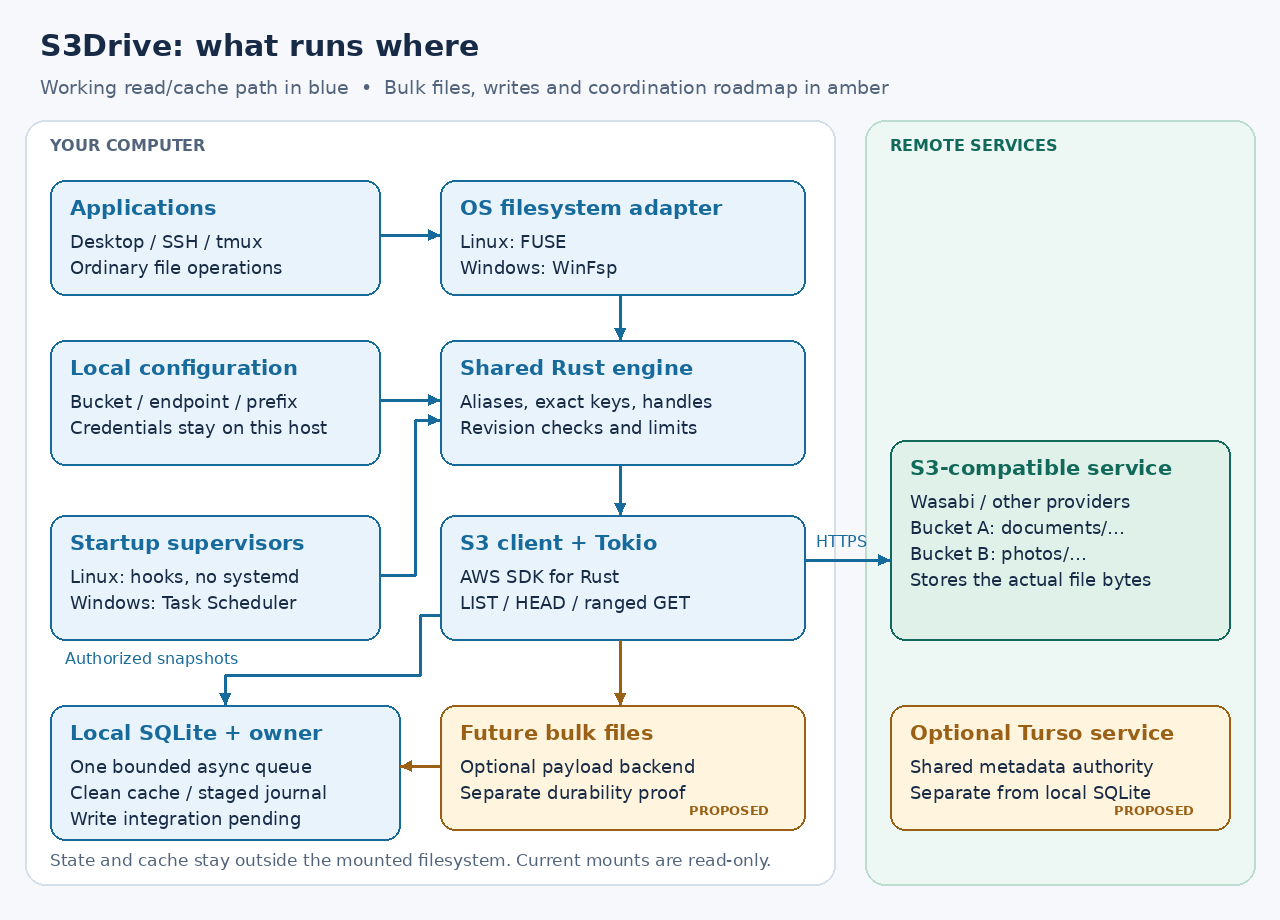
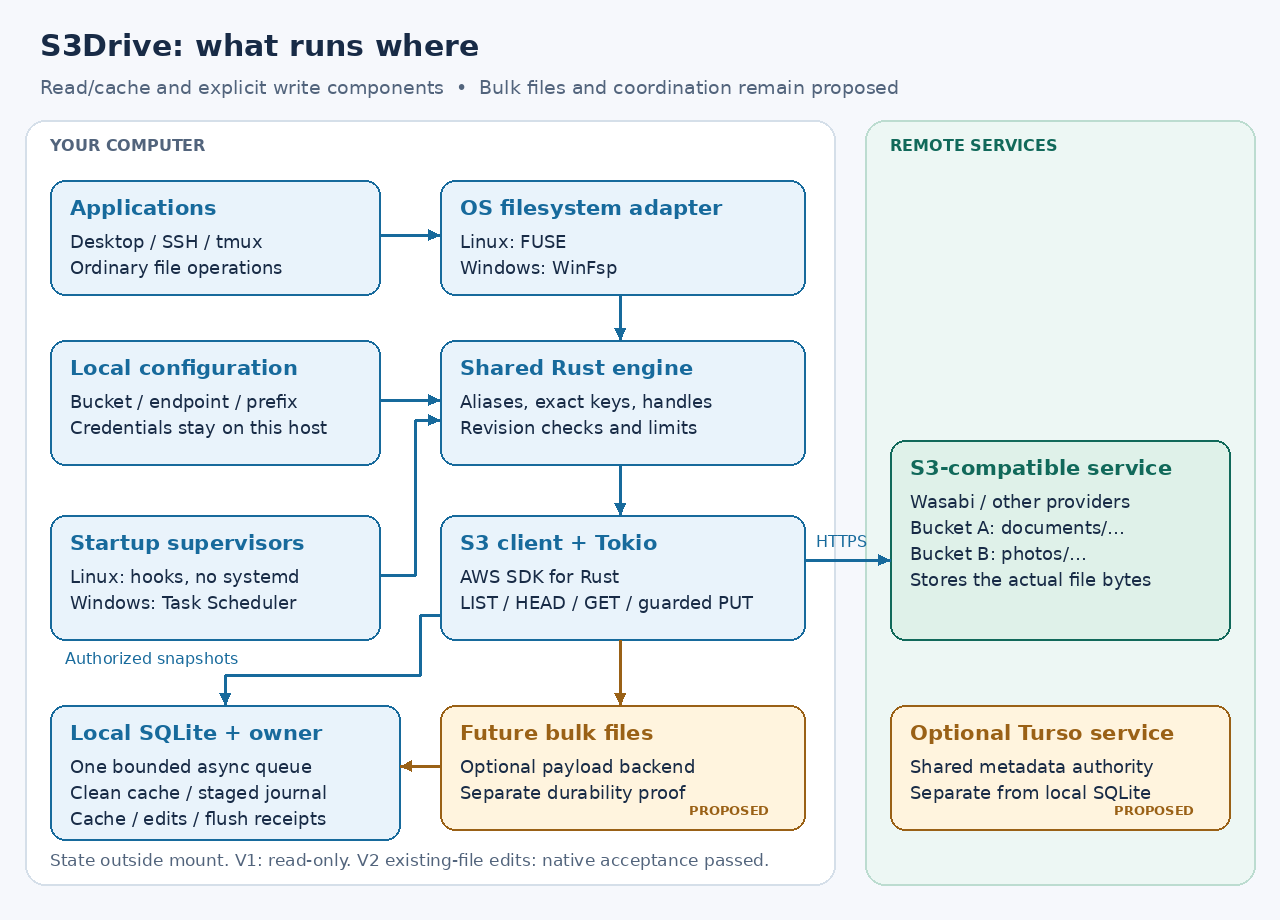
Return native conflict errors and record writable drive acceptance

Changed region(s): [[0.0625, 0.8826, 0.5938, 0.9435], [0.0312, 0.0913, 0.7188, 0.1217], [0.4375, 0.6391, 0.5938, 0.6696]]

diff --git a/scripts/draw-architecture.py b/scripts/draw-architecture.py
@@ -47,7 +47,7 @@ class Diagram:
         self.image.save(OUT / name, optimize=True)
 
 
-d = Diagram("S3Drive: what runs where", "Working read/cache path in blue  •  Bulk files, writes and coordination roadmap in amber")
+d = Diagram("S3Drive: what runs where", "Read/cache and explicit write components  •  Bulk files and coordination remain proposed")
 d.draw.rounded_rectangle((25, 120, 835, 885), 20, fill="#ffffff", outline="#d5dfe9", width=2)
 d.draw.rounded_rectangle((865, 120, 1255, 885), 20, fill="#edf7f4", outline="#bcdcd0", width=2)
 d.text(50, 136, "YOUR COMPUTER", 16, bold=True, color=MUTED)
@@ -59,19 +59,19 @@ d.box(440, 340, 365, 125, "Shared Rust engine", ["Aliases, exact keys, handles",
 d.arrow([(620, 295), (620, 340)])
 d.box(50, 340, 330, 125, "Local configuration", ["Bucket / endpoint / prefix", "Credentials stay on this host"])
 d.arrow([(380, 400), (440, 400)])
-d.box(440, 515, 365, 125, "S3 client + Tokio", ["AWS SDK for Rust", "LIST / HEAD / ranged GET"])
+d.box(440, 515, 365, 125, "S3 client + Tokio", ["AWS SDK for Rust", "LIST / HEAD / GET / guarded PUT"])
 d.arrow([(620, 465), (620, 515)])
 d.box(890, 440, 340, 200, "S3-compatible service", ["Wasabi / other providers", "Bucket A: documents/…", "Bucket B: photos/…", "Stores the actual file bytes"], color=GREEN, fill="#dff1e9")
 d.arrow([(805, 560), (890, 560)], label="HTTPS", position=(816, 532))
 d.box(50, 515, 330, 125, "Startup supervisors", ["Linux: hooks, no systemd", "Windows: Task Scheduler"])
 d.arrow([(380, 575), (415, 575), (415, 420), (440, 420)])
-d.box(50, 705, 350, 135, "Local SQLite + owner", ["One bounded async queue", "Clean cache / staged journal", "Write integration pending"], color=BLUE, fill="#e9f3fb")
+d.box(50, 705, 350, 135, "Local SQLite + owner", ["One bounded async queue", "Clean cache / staged journal", "Cache / edits / flush receipts"], color=BLUE, fill="#e9f3fb")
 d.box(440, 705, 365, 125, "Future bulk files", ["Optional payload backend", "Separate durability proof"], color=AMBER, fill="#fff4de", planned=True)
 d.arrow([(620, 640), (620, 705)], color=AMBER)
 d.arrow([(440, 615), (420, 615), (420, 675), (225, 675), (225, 705)], color=BLUE, label="Authorized snapshots", position=(65, 649))
 d.arrow([(440, 766), (400, 766)], color=AMBER)
 d.box(890, 705, 340, 125, "Optional Turso service", ["Shared metadata authority", "Separate from local SQLite"], color=AMBER, fill="#fff4de", planned=True)
-d.text(50, 850, "State and cache stay outside the mounted filesystem. Current mounts are read-only.", 17, color=MUTED)
+d.text(50, 850, "State outside mount. V1: read-only. V2 existing-file edits: native acceptance passed.", 17, color=MUTED)
 d.save("architecture.png")
 
 d = Diagram("A session ends; the mount keeps running", "Linux terminal loss + Windows cross-logon reads verified  •  Workstation reboot checks pending", 790)
@@ -197,7 +197,7 @@ d.box(40, 795, 1195, 115, "A lost reply is not rollback", ["Restart or inspect t
 d.save("flush-receipts.png")
 
 
-d = Diagram("Existing-file edits: one shared path on both OSes", "P5c1a implementation • Native acceptance tracked separately • No automatic rebase", height=960)
+d = Diagram("Existing-file edits: one shared path on both OSes", "P5c1a • Native Linux/Windows acceptance passed • No automatic rebase", height=960)
 d.box(40, 140, 360, 130, "Applications + OS adapter", ["Ordinary write / truncate / fsync", "Linux FUSE or Windows WinFsp", "Owner account only"])
 d.box(470, 140, 770, 130, "Shared Rust file engine", ["Online authorization on new opens; per-file serialization", "Patch, append and sparse growth; four mutation slots", "Open readers share the current immutable snapshot"])
 d.arrow([(400, 205), (470, 205)])

diff --git a/crates/s3drive-fs/src/writable.rs b/crates/s3drive-fs/src/writable.rs
@@ -327,12 +327,27 @@ impl Writes {
         self.flush_generation(file, id).await
     }
     async fn flush_generation(&self, file: &File, id: GenerationId) -> Result<()> {
-        let receipt = self.sources[file.source]
+        let result = self.sources[file.source]
             .as_ref()
             .ok_or(Error::ReadOnly)?
             .flush(id)
-            .await
-            .map_err(write_error)?;
+            .await;
+        let receipt = match result {
+            Ok(receipt) => receipt,
+            Err(error) => {
+                if self
+                    .storage
+                    .uploads()
+                    .for_generation(id)
+                    .await
+                    .map_err(cache_error)?
+                    .is_some_and(|info| info.phase == Phase::Rejected)
+                {
+                    return Err(Error::Conflict);
+                }
+                return Err(write_error(error));
+            }
+        };
         let revision = receipt.info().revision.as_ref().ok_or(Error::Internal)?;
         file.current
             .lock()

diff --git a/crates/s3drive-cli/tests/writable_engine.rs b/crates/s3drive-cli/tests/writable_engine.rs
@@ -166,11 +166,11 @@ async fn engine_child() {
     assert!(fs.open_write(readonly.id).await.is_err());
     println!("READY_FOR_RIVAL");
     wait_signal(&root, "rival-ready").await;
-    assert!(
+    assert!(matches!(
         file.write(0, Arc::from(b"mine".as_slice()), false, false)
-            .await
-            .is_err()
-    );
+            .await,
+        Err(s3drive_fs::Error::Conflict)
+    ));
     assert_eq!(&file.read(0, 100).await.unwrap()[..4], b"mine");
     assert!(file.flush().await.is_err());
     assert!(fs.open_write(node.id).await.is_err());

diff --git a/crates/s3drive-winfsp/src/lib.rs b/crates/s3drive-winfsp/src/lib.rs
@@ -9,4 +9,4 @@ mod windows;
 #[cfg(windows)]
 pub use windows::run;
 
-pub const IMPLEMENTATION_STATUS: &str = "WinFsp with optional SQLite cache; read-only acceptance verified; explicit existing-file writes under native acceptance";
+pub const IMPLEMENTATION_STATUS: &str = "WinFsp with optional SQLite cache; read-only acceptance verified; explicit existing-file writes with native acceptance";

diff --git a/crates/s3drive-fuse/src/lib.rs b/crates/s3drive-fuse/src/lib.rs
@@ -5,4 +5,4 @@ mod linux;
 pub use linux::run;
 
 pub const IMPLEMENTATION_STATUS: &str =
-    "Linux FUSE with optional SQLite cache; explicit existing-file writes under native acceptance";
+    "Linux FUSE with optional SQLite cache; explicit existing-file writes with native acceptance";

diff --git a/docs/src/architecture.md b/docs/src/architecture.md
@@ -4,15 +4,16 @@ The diagram describes the target system. P0 added configuration, evidence
 types, SQLite initialization and explicit adapter stubs. P1 adds the read-only
 S3 transport. P2 adds the shared read-only namespace/handle engine and Linux
 adapter; P3 adds Windows WinFsp. Optional clean caching and the local staging
-library and local file-edit plans are implemented. Writable mount integration and conditional remote
-commit remain planned. See platform contracts for native acceptance scope.
+library, local file-edit plans, guarded remote commit and flush receipts are
+implemented. P5c1a connects opt-in existing-file edits to both native adapters,
+with native acceptance on both OSes. See [the detailed write path](native-writes.md).
 
 ![Local applications reach the Rust filesystem engine through FUSE or WinFsp; its S3 client reads remote bucket data. Local SQLite and cache have separate roles.](images/architecture.png)
 
 The blue read/cache path is implemented. New opens authorize with S3 before
-SQLite cache access; a hit avoids the data GET. Amber external bulk files,
-writable mount integration and coordination components remain planned. The
-local staging/journal library is implemented separately from mounted writes.
+SQLite cache access; a hit avoids the data GET. Amber external bulk files and coordination components remain planned. Existing
+configurations stay read-only; explicit version-2 editing requires separate
+source-bound policies and evidence.
 [Startup and remote sessions](startup-and-sessions.md)
 include MX Linux without systemd. [Turso coordination](turso-coordination.md)
 evaluates an optional shared metadata authority, separate from each host's local database.
@@ -21,24 +22,24 @@ evaluates an optional shared metadata authority, separate from each host's local
 ## Crate ownership and process model
 
 `s3drive-core` owns configuration validation and path resolution.
-`s3drive-fs` owns the shared read-only namespace, inode identities and open
+`s3drive-fs` owns the shared namespace, inode identities and open
 handles. It depends on the S3 reader but not on FUSE or Windows types. OS
 adapters translate its errors and project metadata into native structures.
 
 `s3drive-s3` translates read operations to the AWS SDK and retains
 ETags/version IDs as opaque validators. Its current implementation exposes
-paginated list, head and bounded range reads; mutation APIs arrive
-only with their precondition and recovery tests. Avoid designing a broad
+paginated list, head and bounded range reads, a scoped provider probe and a
+policy-bound guarded single-PUT executor with durable recovery. Avoid designing a broad
 generic VFS trait before the first real adapter reveals the necessary contract.
 
 `s3drive-state` owns SQLite migrations, persistent identity, cache metadata,
-local staged generations and eventual remote upload jobs. Its clean cache uses
+local staged generations, remote upload attempts and flush receipts. Its clean cache uses
 BLOBs up to 1 MiB so bytes and integrity metadata commit together. P5a1 stages
 complete generations as bounded SQLite chunks, with local intent in the same
 transaction boundary. Optional external bulk files remain future work. The
 cache and journal now share one bounded SQL worker through `worker::Storage`.
-Mounted reads use its cache handle; staged writes are a library API until the
-remaining write phases pass. No SQL transaction spans a network request. A local process lock must prevent two daemon instances from owning
+Mounted reads use its cache handle; opt-in writable callbacks share the same
+owner and immutable-generation APIs. No SQL transaction spans a network request. A local process lock must prevent two daemon instances from owning
 the same volume/cache; SQLite locking alone does not coordinate cache files.
 
 The platform crates own only OS callback translation, reply lifetimes, mount
@@ -69,14 +70,16 @@ delete. No transparent failover, replication or balancing is promised. Different
 providers can have different credentials, latency and capabilities.
 
 Implemented storage cache keys include the credential/configuration binding,
-exact object key, size and revision. P4a binds successful opens to the actual
-credentials used for HEAD and all reads through that handle; new opens resolve
-credentials again. Configuration or credential changes select a different
-namespace, and every new open still requires online authorization. SQLite
-schema 6 retains the binding registry, unbound legacy rows, clean snapshots,
+exact object key, size and revision. P4a binds successful read-only opens to the actual
+credentials used for HEAD and reads through that handle; new read-only opens
+resolve credentials again. Version 2 pins the policy-matching credential
+generation at mount startup. It does not implicitly rebind pending writes when
+a profile changes. Both modes require online authorization for every new open.
+Changed configuration or credentials select a different binding namespace. SQLite
+schema 7 retains the binding registry, unbound legacy rows, clean snapshots,
 staged generations/local intent and edit operation keys. It adds the
 [remote-attempt journal](remote-journal.md) with single-use send claims and
-uncertain-result recovery. The [SDK executor](upload-executor.md) is tested with
+uncertain-result recovery, plus generation-specific flush acknowledgment. The [SDK executor](upload-executor.md) is tested with
 local HTTP fixtures; production construction remains gated.
 The engine enforces online authorization before cache lookup.
 This is not a provider-global account identifier. See the implemented

diff --git a/HANDOFF.md b/HANDOFF.md
@@ -1,6 +1,6 @@
 # S3Drive handoff
 
-Updated: 2026-10-16. Current phase: **P5c1a native existing-file writes**, under acceptance.
+Updated: 2026-10-16. Current phase: **P5c1a native existing-file writes**; native acceptance passed.
 Goal active. Linux/Windows read-only drives and startup foundations work;
 library writes/flush are progressing toward safe writable native filesystems.
 Do not call the broader editable-drive goal complete before its documented
@@ -13,8 +13,8 @@ safe-write contract and real OS acceptance pass.
 - One or more S3-compatible buckets/prefixes exposed through source aliases.
   Wasabi is the first live provider; other endpoints need separate conformance.
 - Linux FUSE and Windows WinFsp adapters have stable read-only acceptance.
-  The current branch adds opt-in existing-file editing; native writable
-  acceptance is pending.
+  The current branch adds opt-in existing-file editing with native writable
+  acceptance. Full desktop editing remains unfinished.
   New online opens authorize through S3; pinned old handles preserve revisions.
   No ordinary CLI upload command, file creation, delete/rename,
   multipart, payload reclamation, new offline opens or desktop packaging yet.
@@ -101,22 +101,36 @@ refused by the existing private-state checks. Do not weaken ownership checks,
 clear NoNewPrivs or use an external privileged launcher to bypass this.
 Logs: `/tmp/s3drive-native-write-linux.log` and
 `/tmp/s3drive-native-write-linux-namespace.log`. Neither is native RW acceptance.
-Initial implementation `5fc39c4` passed Linux native writes, 341 RO requests and
-no-systemd startup in job 117270659528, run 38990194704. Windows is still running.
-The expanded tests add lost replies, restart reconciliation without replay and
-native 412 conflicts; their exact-tip native CI is still required. Normal
-desktop/login-session acceptance remains separate.
+Implementation `cf5e456` passed the expanded native suites in
+[run 38990445390](https://github.com/marshallr12/s3drive/actions/runs/38990445390):
+Linux job 117271446300, Windows job 117271446336, book 117271446202.
+Both OSes exercised lost replies, uncertain restart without another PUT and
+412 conflict preservation, alongside read-only/cache/session regressions.
+Linux terminal success and 341 RO requests are recorded in
+`/tmp/s3drive-native-write-linux-ci-expanded.log`. At this handoff refresh,
+Windows native steps passed and its job was finishing cache upload; verify the
+terminal result, then record the exact-tip final run after this refresh.
+Initial `5fc39c4` also passed all three jobs in run 38990194704, including
+749 read-only WinFsp requests and native writable restart. Logs:
+`/tmp/s3drive-native-write-{linux,windows}-ci-initial.log`.
 
-## Required publication gate
+The final shared error mapping turns journal-rejected flushes into Conflict
+(Linux ESTALE / Windows STATUS_FILE_INVALID). Portable engine assertions cover
+that distinction. `/tmp/s3drive-native-write-gate-final.log` is a successful
+full local gate; documentation and diagram refresh follow it. Both generated
+architecture images were visually inspected. Normal desktop/login-session,
+physical power-cut and actual workstation reboot remain separate acceptance.
 
-Push `native-writable-files`, wait for terminal exact-tip Linux/Windows/book CI,
-inspect both new native writable tests and all read-only/session regressions,
-then fast-forward/push main and verify remote SHA/private visibility. Do not
-infer terminal success while a job is still saving its cache. Preserve unrelated
-user files. Run `bash scripts/gate.sh` locally; separate native commands are:
+## Publication protocol
+
+Before publishing this or any subsequent change, require terminal exact-tip
+Linux/Windows/book CI and inspect native results. Then fast-forward/push main
+and verify remote SHA/private visibility. Do not infer terminal success while
+a job is still saving its cache. Preserve unrelated user files.
+`bash scripts/gate.sh` remains the local gate; separate native commands are
 `cargo test -p s3drive-cli --test linux_mount --locked -- --ignored --nocapture`
-and `python3 scripts/test-linux-session.py`. Windows native tests run on the
-GitHub VM, not locally. No new live cloud mutation is authorized.
+and `python3 scripts/test-linux-session.py`. Windows runs on the GitHub VM.
+No new live cloud mutation is authorized.
 
 ## Completed live Wasabi approval: consumed, do not rerun
 
@@ -147,9 +161,10 @@ were already removed. Do not infer remaining cleanup from old plans/logs.
 
 ## Next implementation and durable decisions
 
-Finish native existing-file write acceptance, then implement creation and
-namespace workflows, reference/pin-aware staging reclamation and explicit
-conflict recovery. Preserve explicit conflict/uncertain states and metadata limits.
+Next implement guarded native file creation in existing directories (P5c1b),
+then persistent directories and namespace workflows (P5c1c), reference/pin-aware
+staging reclamation and explicit conflict recovery. Do not expose delete/rename
+based on fixture cleanup: that is not provider-verified application deletion. Preserve explicit conflict/uncertain states and metadata limits.
 Do not keep adding isolated wrappers while deferring integration indefinitely.
 Multipart, explicit uncertain-intent recovery/forking and credential rebinding
 need independently testable contracts; follow `docs/src/implementation-plan.md`.

diff --git a/docs/src/implementation-plan.md b/docs/src/implementation-plan.md
@@ -35,7 +35,8 @@ and writable OS callbacks remain subsequent phases.
 | P5b2c — explicit library write policy | Source/report-bound factory, exact prefix and byte limits, credential-generation matching and evidence expiry | Strict local evidence parsing, denied targets before send claims, full SDK/TCP tests through the public factory, observation-only recovery after expiry; no live mutations or mount configuration changes |
 | P5b2d — generation-specific remote flush | Verified remote receipt plus atomic local acknowledgment/supersession records; retain immutable snapshots and newer pending heads | Lost local replies, restart/process-kill and disk-full rollback, corruption/migration refusal, exact ancestor coverage and SDK/TCP flush without replay; no payload reclamation or writable callbacks |
 | P5c1a — native existing-file writes | Explicit version-2 policy-bound mounts, shared SQLite/edit/upload owner, truncate/append/read-your-writes and remote flush for existing files | Real FUSE and WinFsp SDK/TCP workflows, restart recovery, conflicts/uncertainty, exact Unicode bytes and read-only regression gates; no real bucket policy is installed implicitly |
-| P5c1b — creation and namespace mutations | Create files/directories, followed by separately specified rename/delete and safe conflict resolution | Native create/reopen/restart and desktop save workflows; provider mutation acceptance and journal recovery for each new operation |
+| P5c1b — native file creation | Guarded empty-file creation in existing directories, writable-parent projection and durable namespace merge | FUSE/WinFsp create/exclusive/reopen/restart and competing-create tests; no overwrite fallback |
+| P5c1c — directories and namespace mutations | Persistent empty directories, followed by separately specified rename/delete and safe conflict resolution | Native directory workflows and desktop temporary-file saves; provider mutation acceptance and journal recovery for each new operation |
 | P5a — staged writes | In-memory storage test double plus immutable local generations and durable journal | Fault injection at every local boundary; acknowledged local state survives restart; network mutation remains disabled |
 | P5b — conditional remote commits | Create/replace and multipart recovery; explicit flush contract | Provider preconditions verified; two-writer conflict tests; crash/timeout replay never overwrites unseen edits |
 | P5c — desktop mutations | Safe delete, documented rename behavior, open-handle semantics, real application workflows | Delete races, save/replace, concurrent open, unmount failures and data-loss tests on both OSes |
@@ -226,7 +227,7 @@ claims, uncertain outcomes and verified-parent ETag guards. P5b2b adds the
 [source/evidence-bound library policy and factory](write-policy.md). P5b2d adds
 [generation-specific remote flush and atomic acknowledgment](flush-receipts.md),
 preserving newer pending heads and all snapshots. P5c1a now connects [opt-in existing-file writes](native-writes.md) to both adapters,
-under native acceptance. No ordinary upload command or dirty-byte reclamation
+with native acceptance on both OSes. No ordinary upload command or dirty-byte reclamation
 is enabled. The existing real configuration remains read-only.
 The scoped Wasabi single-PUT probe passed with cleanup; no real application
 write policy has been installed. Multipart is a separate capability;

diff --git a/docs/src/native-writes.md b/docs/src/native-writes.md
@@ -1,10 +1,9 @@
 # Native existing-file writes
 
-**P5c1a, implementation under native acceptance, 2026-10-16.** A separate
+**P5c1a, native acceptance passed, 2026-10-16.** A separate
 version-2 configuration opts selected sources into existing-file editing.
 Version-1 configurations remain read-only. The shared engine is connected to
-both adapters; local SDK/SQLite integration passes. Native Linux and Windows
-acceptance must pass before publication. No real Wasabi configuration, policy,
+both adapters; local SDK/SQLite integration and native Linux/Windows tests pass. No real Wasabi configuration, policy,
 credentials, startup registration or objects are changed by these tests.
 
 This phase edits existing files only. File/directory creation, deletion,
@@ -118,6 +117,15 @@ New file sizes must fit the explicit policy and the 8 MiB single-PUT bound.
 
 ## Evidence and remaining acceptance
 
+Implementation `cf5e456` passed both native suites in
+[run 38990445390](https://github.com/marshallr12/s3drive/actions/runs/38990445390):
+Linux job 117271446300 and Windows job 117271446336. Each ran the existing-file
+write workflow plus lost replies, restart without replay and conflict retention,
+alongside read-only/cache/session regressions. Native Windows runs remotely on
+GitHub's Windows Server 2025 VM. The final conflict error mapping and documentation
+refresh must also pass exact-tip CI before publication.
+
+
 The local child-process engine test uses the real CLI's full conditional probe,
 strict policy factory, SDK TCP transport and SQLite. It exercises binary/Unicode
 edits, shared readers, sparse/truncate/append/constrained writes, repeated flush,
@@ -128,7 +136,9 @@ Native tests use ordinary file syscalls through actual FUSE/WinFsp and the same
 owned loopback fixture. They exercise existing-file writes, shared reads,
 truncation, zero growth, append, remote flush, limits, prefix protection and
 restart. Lost replies are verified without replay; observation failures retain
-local bytes and fail fsync until restart can reconcile the remote operation.
+local bytes and fail fsync until restart can reconcile the remote operation. Rejected
+remote attempts return the shared conflict error (Linux `ESTALE`, Windows
+`STATUS_FILE_INVALID`); unknown results remain I/O failures.
 Native competing-writer tests retain the rejected local snapshot and verify
 that the rival remote bytes remain unchanged.
 The fixture's mutation support is explicitly disabled for read-only
@@ -137,6 +147,6 @@ regression cases. No cloud account is contacted.
 The current local executor has `NoNewPrivs=1`; its setuid FUSE helper cannot
 mount. An isolated user/mount namespace mounts read-only FUSE, but maps root
 ancestors to an unmapped UID and is refused by the unchanged private-state
-checks. Those checks were retained. Thus this phase's driver evidence must come
+checks. Those checks were retained. This phase's driver evidence comes
 from Linux CI and the remote Windows Server 2025 VM. Native writable acceptance
 on this workstation's normal desktop/login session remains separate work.

diff --git a/docs/src/platform-integration.md b/docs/src/platform-integration.md
@@ -2,12 +2,13 @@
 
 Linux FUSE and Windows WinFsp read-only adapters have passed their native gates. See the
 [Windows contract](windows-mount.md). See [the Linux contract](linux-mount.md) for commands, limits and the
-explicit native acceptance gate.
+explicit native acceptance gate. [Opt-in existing-file editing](native-writes.md)
+adds write/truncate/flush callbacks with separate native acceptance on both OSes.
 
 ## Linux: FUSE with fuser
 
 The Linux-only `fuser` 0.18 dependency supplies lookup, getattr, directory,
-open/read/release and read-only flush callbacks. Inodes are retained under a
+open/read/release and flush callbacks; version 2 adds write and size changes. Inodes are retained under a
 mount-wide cap instead of recycled on `forget`; directory handles keep stable
 snapshots and offsets. Four FUSE threads run network futures on a shared Tokio
 runtime. Signals cancel outstanding futures and request unmount. The exact
@@ -39,8 +40,8 @@ linking, and offers a `system` feature for installed libraries. Prototype on
 Implement and test file information, directory enumeration, file contexts,
 security descriptors, read offsets, sharing modes, cleanup/close ordering,
 delete-pending behavior and case handling. Windows callbacks cannot be mapped
-one-for-one to Unix assumptions. Later writes require overwrite/flush paths,
-rename replacement rules and byte-range lock policy.
+one-for-one to Unix assumptions. P5c1a adds overwrite/write/size/flush callbacks.
+Rename replacement rules and byte-range lock policy remain subsequent work.
 
 Separate driver installation from running the user agent. A Windows service's
 session/account context may differ from the interactive desktop; verify that

diff --git a/docs/src/README.md b/docs/src/README.md
@@ -62,7 +62,7 @@ an authoritative metadata service rather than hiding weaknesses of copy/delete.
 | Durable remote-attempt journal | [Local single-use claims and uncertain-result recovery](remote-journal.md); executor described below |
 | Journal-driven SDK executor | [Implemented and tested on Linux/Windows](upload-executor.md); explicit source/evidence-bound factory; native integration below |
 | Generation-specific remote flush | [Library receipt and atomic acknowledgment](flush-receipts.md); retain newer heads and all snapshots |
-| Existing-file write mounts | [Version-2 opt-in implementation](native-writes.md), under native acceptance; no real writable configuration installed |
+| Existing-file write mounts | [Version-2 opt-in implementation](native-writes.md), native Linux/Windows acceptance passed; no real writable configuration installed |
 | Creation, rename/delete, new offline opens, tray UI | Planned |
 
 The initial research/scaffold delivery is complete. Work has advanced to the

diff --git a/docs/src/development.md b/docs/src/development.md
@@ -50,8 +50,10 @@ Windows testing runs remotely in the private repository's GitHub Actions
 workstation. The 2026-10-16 run logs identify Windows Server 2025
 (`10.0.26100`, image `windows-2025-vs2026`). This is native Windows driver/API
 evidence, not acceptance on a user's Windows 10/11 desktop or a rebooted PC.
-The local Linux workstation separately runs its real FUSE and non-systemd
-startup checks.
+Earlier local Linux gates ran real FUSE and no-systemd startup. The current
+executor has `NoNewPrivs=1`, preventing setuid `fusermount3`; the current phase
+therefore requires native Linux CI rather than weakening local ownership or
+execution checks. See [native write acceptance](native-writes.md).
 
 Behavioral tests cover namespace isolation/traversal, exact key bytes and byte
 limits, endpoint/config rejection, alias collisions, SQLite persistence/schema
